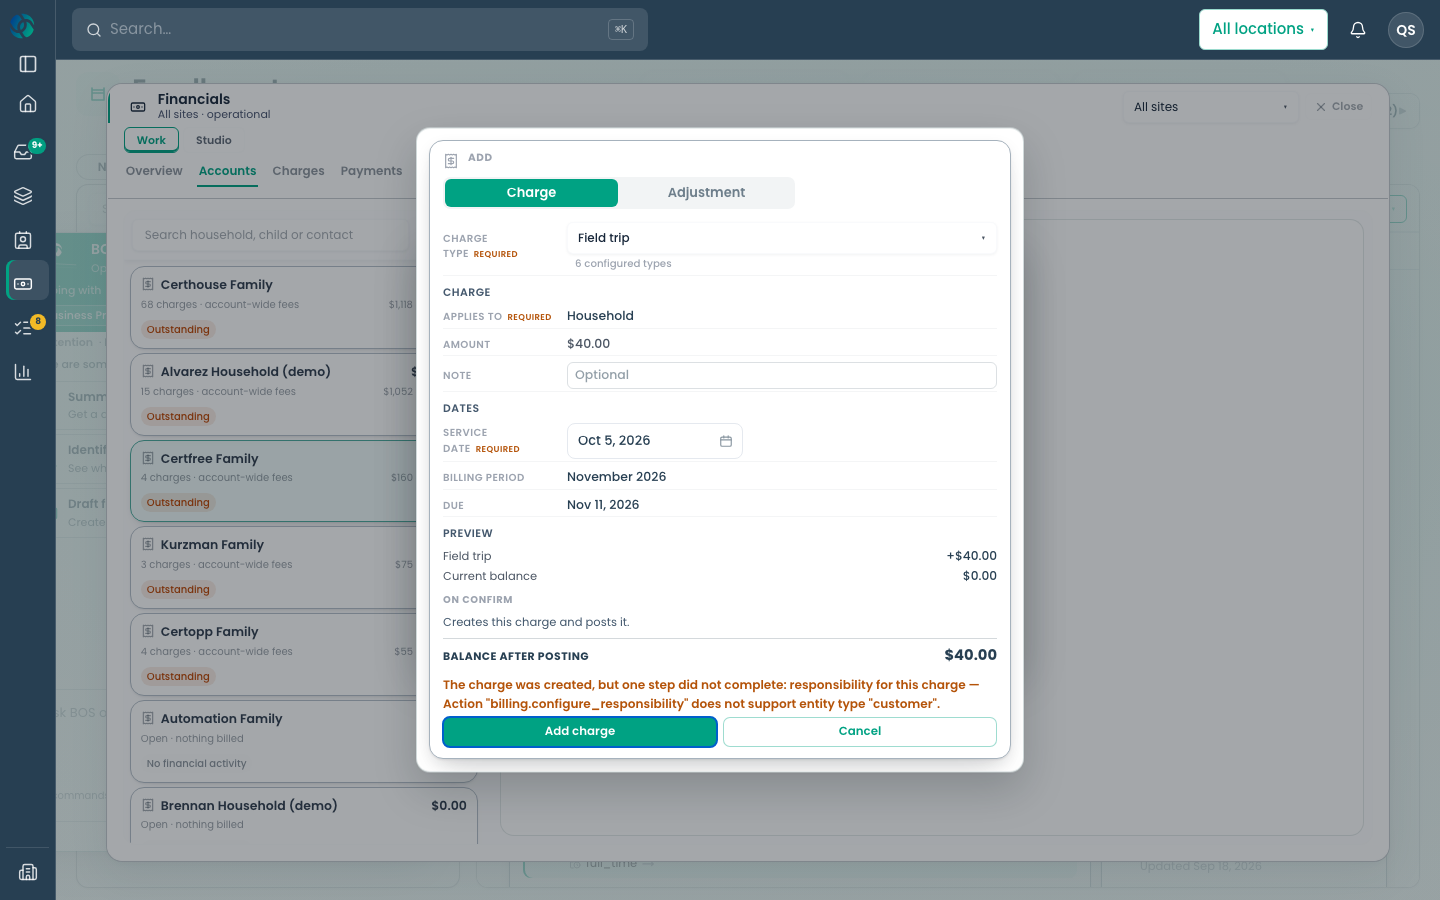
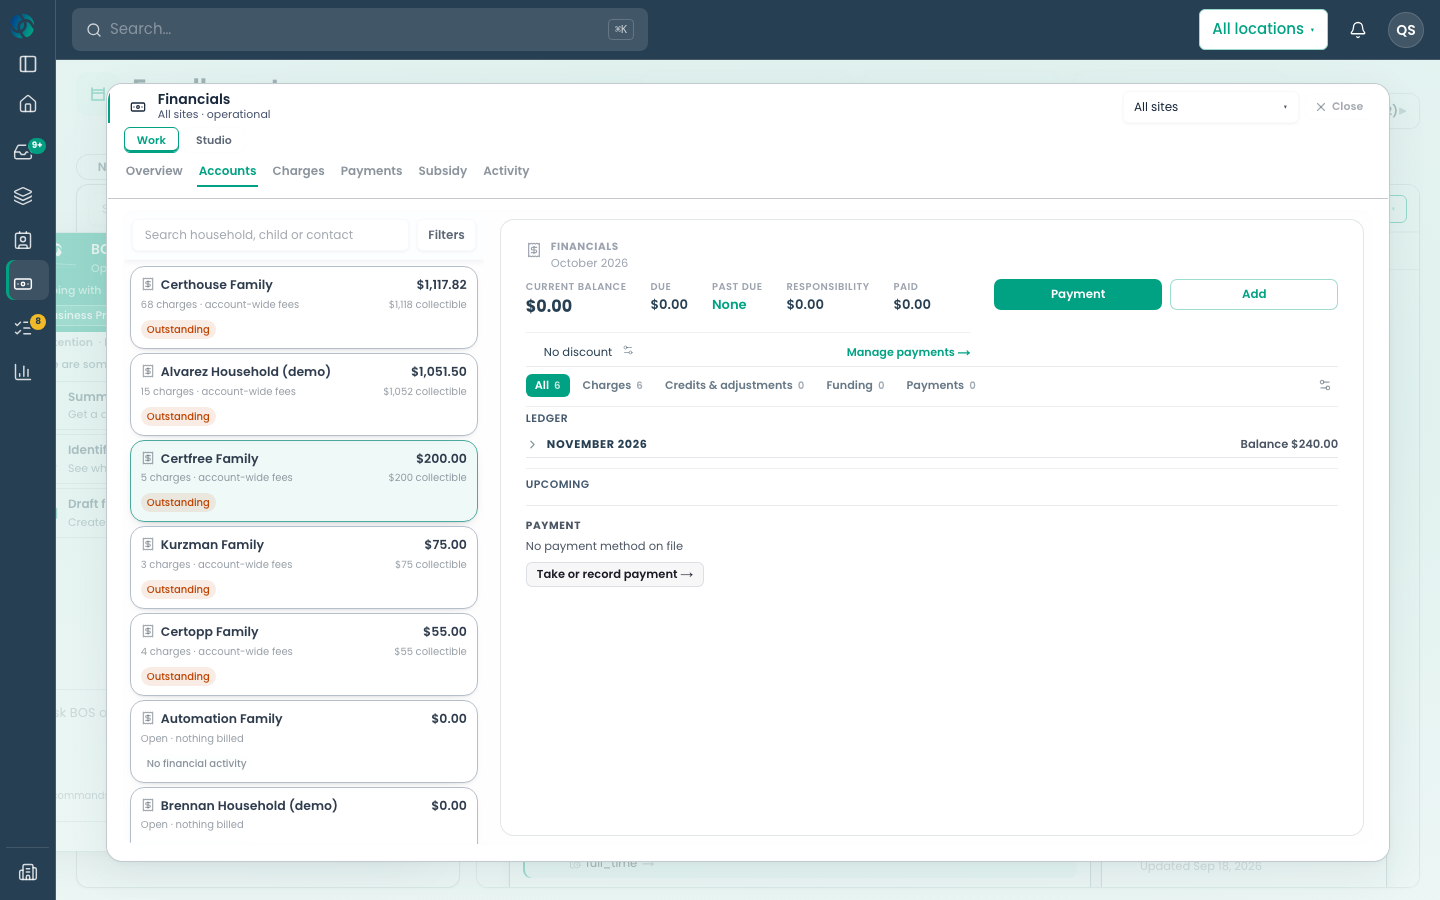
cert(financials): the arrangement inherits — the charge is still not divided
Fourth decisive proof on deployed 9a16cf6c. F-M PASS: charge.add created exactly
one new charge (5 -> 6, $200 -> $240), billing.configure_responsibility executed
against entity_type=customer with the real account id and a null member, returned
ok:true, and wrote arrangement a0918a88 with one share — Ada Certfree, percentage,
10000 bp — scoped to the new charge 3fb7c297. The three defects are fixed and the
chain runs end to end.

§3 readback FAILS, and the product states why in its own words: "1 responsible
party from Oct 2, 2026. This posted charge is not divided under it." Every ledger
row reads Not allocated, and financial_responsibility_allocations is still zero.

configure_responsibility writes an ARRANGEMENT — who would bear the charge.
Dividing the net into ALLOCATIONS is the separate resolve path, which Add Charge's
follow-up never calls. So the obligation is governed but owed by nobody in the
allocation table, and the ledger is being truthful. Whether Add Charge should also
resolve is a domain decision, and the architectural boundary was explicit that
responsibility persistence stays independently governed rather than folded into the
charge writer — so it is returned, not taken.

Accounts Details is otherwise correct and complete: Billing period November 2026,
Due Nov 11, Service Date Oct 6, GL 4090, gross/net $40, exact created and posted
timestamps, Ada Certfree 100% under the arrangement, and ZERO UUIDs. The Focus
[…]

diff --git a/web/playwright/tests/zzz-w7-closure.spec.ts b/web/playwright/tests/zzz-w7-closure.spec.ts
@@ -1,0 +1,138 @@
+/**
+ * §3 readback + §6/§7/§9 Details and parity, for the charge that finally inherited.
+ *
+ * Target charge: 3fb7c297 (service 2026-10-06). Its charge-scoped arrangement a0918a88 names
+ * Ada Certfree at percentage 10000 bp. The question here is whether the OPERATOR sees that — in
+ * the ledger, in Details from Accounts, and identically in Details from the Focus Panel.
+ */
+import { expect, test, type Page } from "@playwright/test";
+import { writeFileSync, mkdirSync } from "node:fs";
+const STORAGE = "/Users/vacilando/.local/state/alloy-dev/gateway/auth/deployed/alloy_staging_web/storage-state.json";
+const OUT = "../certification/financials/w7-repair-1/closure";
+const ENTRY = "/workspace/work-unit/enrolled-children";
+const CHARGE = "3fb7c297-c8d3-44ce-a760-5a939ff85fd3";
+test.use({ storageState: STORAGE, baseURL: "https://staging.workwithalloy.com", viewport: { width: 1440, height: 900 } });
+test.describe.configure({ mode: "serial" });
+test.setTimeout(1_800_000);
+const log = (s: string) => console.log(s); // eslint-disable-line no-console
+const found: Record<string, unknown>[] = [];
+const save = () => { mkdirSync(OUT, { recursive: true }); writeFileSync(`${OUT}/closure.json`, JSON.stringify(found, null, 2)); };
+
+const readDetails = (page: Page) => page.evaluate(() => {
+    const card = document.querySelector("[data-financials-overlay='charge_detail']")
+        ?? document.querySelector("[data-financials-charge-detail]");
+    if (!card) return null;
+    const rows: Record<string, string> = {};
+    card.querySelectorAll("[data-financials-charge-line]").forEach((r) => {
+        const s = r.querySelectorAll("span");
+        if (s.length >= 2) rows[(s[0]!.textContent ?? "").trim()] = (s[1]!.textContent ?? "").trim();
+    });
+    const text = (card as HTMLElement).innerText.replace(/\s+/g, " ");
+    return {
+        label: (card.querySelector("[data-financials-charge-label]") as HTMLElement | null)?.innerText.trim() ?? null,
+        attribution: (card.querySelector("[data-financials-charge-attribution]") as HTMLElement | null)?.innerText.replace(/\s+/g, " ").trim() ?? null,
+        attributionState: card.querySelector("[data-financials-charge-attribution]")?.getAttribute("data-financials-charge-attribution") ?? null,
+        status: card.querySelector("[data-financials-charge-status]")?.getAttribute("data-financials-charge-status") ?? null,
+        rows,
+        uuidCount: (text.match(/[0-9a-f]{8}-[0-9a-f]{4}-/gi) ?? []).length,
+        text: text.slice(0, 700),
+    };
+});
+
+async function openAccount(page: Page) {
+    for (let a = 1; a <= 2; a++) {
+        await page.goto(ENTRY, { waitUntil: "domcontentloaded" });
+        await page.waitForTimeout(13_000);
+        const nav = page.locator("[data-adminv2-sidebar-modal-nav='financials']").first();
+        if (await nav.count()) { await nav.click({ force: true, timeout: 20_000 }); break; }
+        if (a === 2) throw new Error("workspace never mounted");
+    }
+    await page.waitForTimeout(11_000);
+    await page.locator("[data-workspace-section-tab='accounts']").first().click({ timeout: 30_000 });
+    await page.waitForFunction(() => document.querySelectorAll("[data-financials-account-row]").length > 0, undefined, { timeout: 180_000 });
+    await page.waitForTimeout(3_000);
+    const id = await page.evaluate(() =>
+        [...document.querySelectorAll("[data-financials-account-row]")]
+            .find((r) => /certfree/i.test((r as HTMLElement).innerText))?.getAttribute("data-financials-account-row") ?? null);
+    await page.locator(`[data-financials-account-row="${id}"]`).first().click({ timeout: 30_000 });
+    await page.waitForTimeout(14_000);
+    await expandLedgerPeriods(page);
+}
+
+/**
+ * A collapsed period shows its header and balance and NO rows — which reads identically to a ledger
+ * that failed to render, and cost one pass before this was noticed. Every period is opened before
+ * any row is looked for.
+ */
+async function expandLedgerPeriods(page: Page) {
+    const toggles = page.locator("[data-financials-period-toggle]");
+    const n = await toggles.count();
+    for (let i = 0; i < n; i++) {
+        const t = toggles.nth(i);
+        if ((await t.getAttribute("aria-expanded")) === "false") {
+            await t.click({ timeout: 15_000 }).catch(() => undefined);
+            await page.waitForTimeout(1_500);
+        }
+    }
+    await page.waitForTimeout(4_000);
+    const rows = await page.locator("[data-financials-ledger-row]").count();
+    log(`  ledger periods: ${n}, rows after expanding: ${rows}`);
+}
+
+test("§3 · the ledger states the responsibility, and Accounts Details agrees", async ({ page }) => {
+    await openAccount(page);
+    /* The ledger row for the charge that inherited. */
+    const ledger = await page.evaluate((cid) => {
+        const row = document.querySelector(`[data-financials-ledger-row="${cid}"]`);
+        const cell = row?.querySelector("[data-financials-responsible]");
+        const all = [...document.querySelectorAll("[data-financials-responsible]")]
+            .map((e) => ({ state: e.getAttribute("data-financials-responsibility"), text: (e as HTMLElement).innerText.trim() }));
+        return {
+            rowFound: !!row,
+            state: cell?.getAttribute("data-financials-responsibility") ?? null,
+            text: (cell as HTMLElement | null)?.innerText.trim() ?? null,
+            allResponsibilityCells: all.slice(0, 10),
+        };
+    }, CHARGE);
+    log(`LEDGER RESPONSIBILITY: ${JSON.stringify(ledger)}`);
+    await page.screenshot({ path: `${OUT}/A-ledger.png`, fullPage: true });
+
+    const opener = page.locator(`[data-financials-row-open="${CHARGE}"]`).first();
+    const openerCount = await opener.count();
+    log(`DETAILS AFFORDANCE on the target row: ${openerCount}`);
+    if (openerCount > 0) {
+        await opener.click({ timeout: 20_000 });
+        await page.waitForTimeout(9_000);
+    }
+    const details = await readDetails(page);
+    log(`ACCOUNTS DETAILS: ${JSON.stringify(details)}`);
+    await page.screenshot({ path: `${OUT}/B-accounts-details.png`, fullPage: true });
+    found.push({ proof: "accounts", ledger, openerCount, details }); save();
+    expect(ledger.rowFound || ledger.allResponsibilityCells.length > 0, "the ledger renders responsibility").toBe(true);
+});
+
+test("§7/§9 · the Focus Panel opens the SAME record, dispatching no command", async ({ page }) => {
+    let commands = 0;
+    page.on("request", (r) => { if (/actions\/execute/.test(r.url())) commands += 1; });
+    await page.goto(ENTRY, { waitUntil: "domcontentloaded" });
+    await page.waitForTimeout(50_000);
+    const nav = page.locator("[data-financials-nav='details']").first();
+    if (await nav.count() === 0) {
+        log("FOCUS PANEL: details nav absent");
+        found.push({ proof: "focus", reachable: false }); save();
+        return;
+    }
+    await nav.click({ timeout: 25_000 });
+    await page.waitForTimeout(14_000);
+    await expandLedgerPeriods(page);
+    const openers = await page.locator("[data-financials-row-open]").count();
+    const target = page.locator(`[data-financials-row-open="${CHARGE}"]`).first();
+    const hasTarget = await target.count();
+    if (hasTarget > 0) { await target.click({ timeout: 20_000 }); await page.waitForTimeout(9_000); }
+    const details = await readDetails(page);
+    log(`FOCUS PANEL openers=${openers} target=${hasTarget} commands=${commands}`);
+    log(`FOCUS PANEL DETAILS: ${JSON.stringify(details)}`);
+    await page.screenshot({ path: `${OUT}/C-focus-details.png`, fullPage: true });
+    found.push({ proof: "focus", openers, hasTarget, commands, details }); save();
+    expect(commands, "opening a record dispatches NO financial command").toBe(0);
+});

diff --git a/web/playwright/tests/zzz-w7-post-1385.spec.ts b/web/playwright/tests/zzz-w7-post-1385.spec.ts
@@ -76,7 +76,13 @@ test("the standing arrangement becomes the charge's allocation", async ({ page }
     await page.locator("[role='option'], [data-alloy-select-option]").filter({ hasText: /Field trip/ }).first().click({ timeout: 20_000 });
     await page.waitForTimeout(8_000);
     const d = page.locator("[data-addcharge-event-date] input").first();
-    await d.fill("Oct 5, 2026"); await d.press("Tab");
+    /*
+     * A DATE NOT USED BEFORE. `charge.add` is idempotent on
+     * `tpl:<template>:<occurs_on>:<customer>`, so reusing a date answers `skipped_posted` with the
+     * EXISTING charge's id — which is correct behaviour and was mistaken for a new write once.
+     * Oct 1-5 are spent on earlier attempts.
+     */
+    await d.fill("Oct 6, 2026"); await d.press("Tab");
     await page.waitForTimeout(11_000);
 
     actions.length = 0; responses.length = 0;

diff --git a/certification/financials/w7-repair-1/FOURTH-PROOF-RESULT.md b/certification/financials/w7-repair-1/FOURTH-PROOF-RESULT.md
@@ -1,0 +1,84 @@
+# Fourth decisive proof — the arrangement inherits; the charge is still not divided
+
+Deployed **`9a16cf6c549a052cc095b950c23379a9be7117fd`** (#1386), confirmed by ancestry.
+
+## F–M: PASS. The three defects are fixed and the chain runs end to end.
+
+New charge `3fb7c297` (service 2026-10-06), Charge To never touched.
+
+```
+charge.add                        entity_type=customer  ok:true
+                                  write_status="created" posted:true
+                                  affected_id=3fb7c297…
+billing.configure_responsibility  entity_type=customer  entity_id=7796a568…  member=null
+                                  shares=[{party fb4eb21b…, percentage, 10000 bp}]
+                                  ok:true  arrangement_id=a0918a88…  shares:1
+```
+
+Account went 5 charges → **6**, ledger $200 → **$240**: exactly one new charge.
+
+Durable state (census 2026-10-02T00:10:09Z) — three arrangements, each with one share at
+`percentage 10000 bp` for Ada Certfree:
+
+| arrangement | charge | meaning |
+|---|---|---|
+| `e5f7deef` | NULL | the standing account-scoped arrangement |
+| `a639f74d` | `859f1614` | see note below |
+| **`a0918a88`** | **`3fb7c297`** | **the new charge's own, inherited without touching Charge To** |
+
+So J/K/L/M hold: a charge-scoped responsibility **arrangement** exists for the new charge, naming
+Ada Certfree, percentage, 10000 bp.
+
+## §3 readback: FAILS, and the product says why
+
+Accounts Details for `3fb7c297` is correct and complete — Billing period November 2026, Due date
+Nov 11 2026, Service Date Oct 6 2026, GL 4090, gross/net $40.00, exact created and posted timestamps,
+**zero UUIDs**, and under RESPONSIBILITY ARRANGEMENT: **Ada Certfree 100%**.
+
+But it also states:
+
+> 1 responsible party from Oct 2, 2026. **This posted charge is not divided under it.**
+
+and every ledger row — all six — reads **`Not allocated`** (`data-financials-responsibility="not-allocated"`).
+
+`financial_responsibility_allocations` is **still zero**.
+
+### The distinction this exposes
+
+`billing.configure_responsibility` writes an **arrangement + shares**: who *would* bear this charge.
+Dividing the charge's net into **allocations** is a separate canonical act — the resolve/reallocate
+path (`resolveChargeResponsibility`). Add Charge's follow-up configures the arrangement and never
+resolves it, so the obligation is governed by an arrangement but owed by nobody in the allocation
+table, and the ledger says so truthfully.
+
+§3 required the ledger NOT to read `Not allocated`. It does. **The readback requirement is not met**,
+so the success condition is not granted.
+
+Whether Add Charge should also resolve the charge under the arrangement it just configured — making
+it three governed acts rather than two — is a domain decision, and the architectural boundary in the
+prior instruction was explicit that responsibility persistence must stay independently governed
+rather than folded into the charge writer. Returned rather than taken.
+
+## Note on `a639f74d` / charge `859f1614`
+
+The first run of this proof reused service date Oct 5, which `charge.add` correctly answered
+`skipped_posted` — idempotent, the existing charge's id returned. The follow-up then configured
+responsibility on that existing (third-attempt) charge. So one historical charge gained an
+arrangement as a side effect of the idempotency path. It was not mutated to "look fixed", nothing
+was reset, and the other four historical charges remain untouched with no charge-scoped
+responsibility. Recording it because it changes the before/after picture by one row.
+
+## Incidental: §10 idempotency, partially obtained
+
+That same run is real evidence for the carried duplicate proof: a repeat submission returned
+`write_status: "skipped_posted"`, `posted: false`, with the existing charge id — read correctly by
+the client through the **public route envelope** (`data.execution_result`), which is exactly the
+contract repaired in #1385. The charge count did not change. What is not yet proven is the operator-
+facing notice text for that case.
+
+## Details / Focus Panel
+
+Accounts Details: proven, above. Focus Panel: the Details affordance is present (**89** openable
+ledger rows) and opening a record dispatched **zero** financial commands — it is a read. Same-charge
+parity was not obtained because the Focus Panel's subject is a different household, so the Certfree
+charge is not in its ledger.
